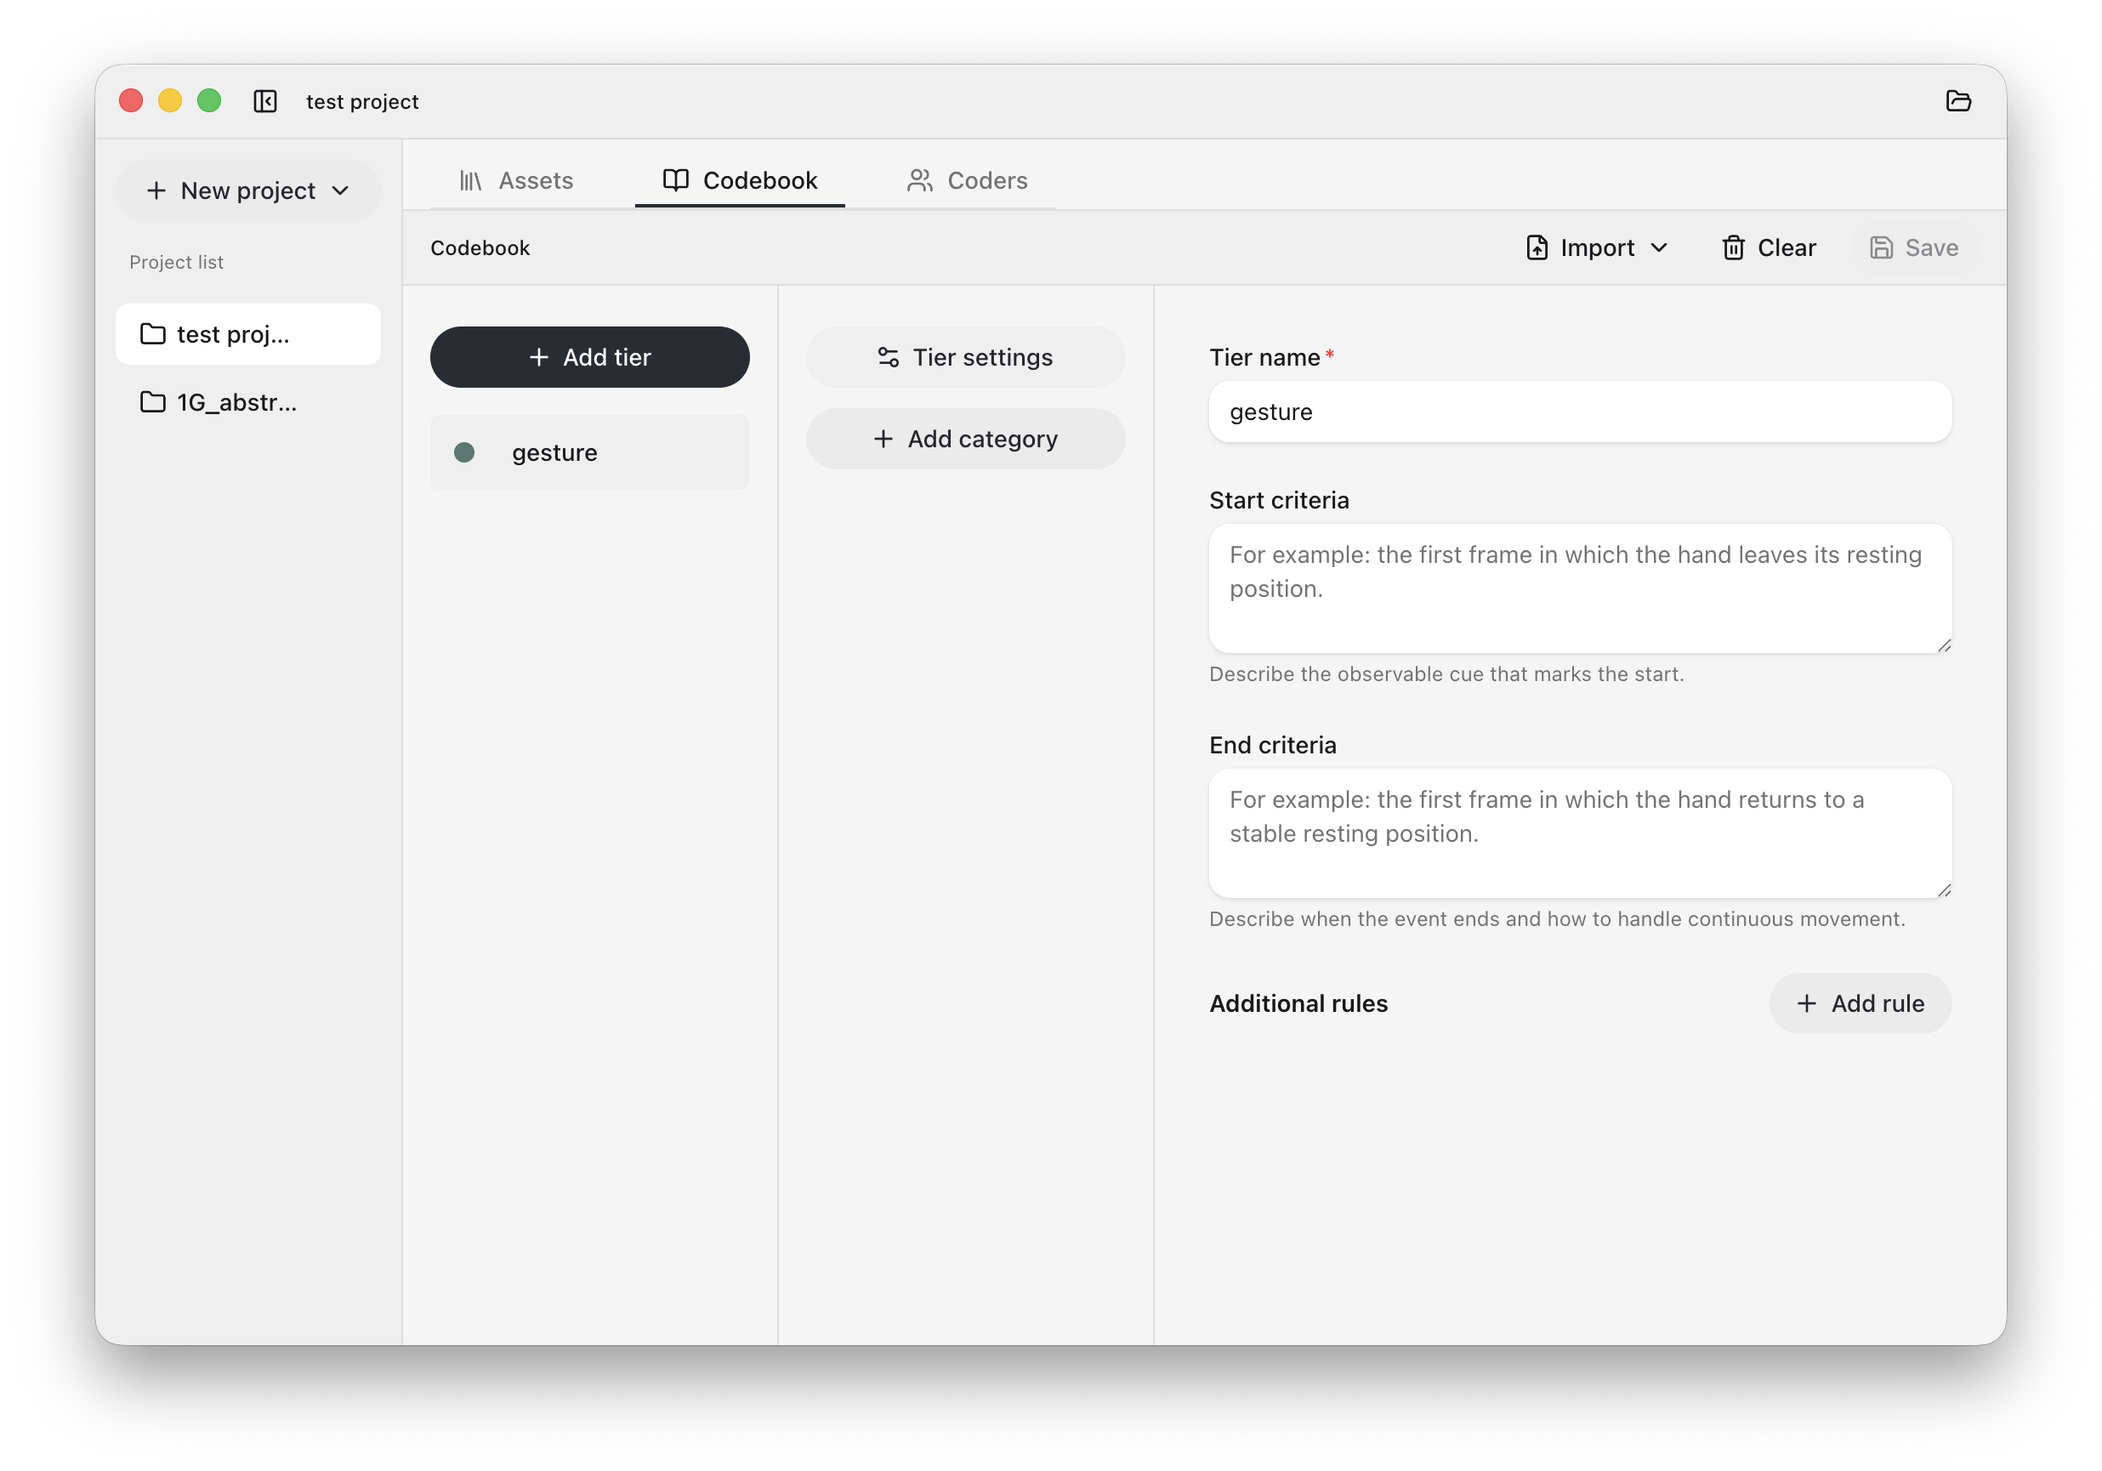
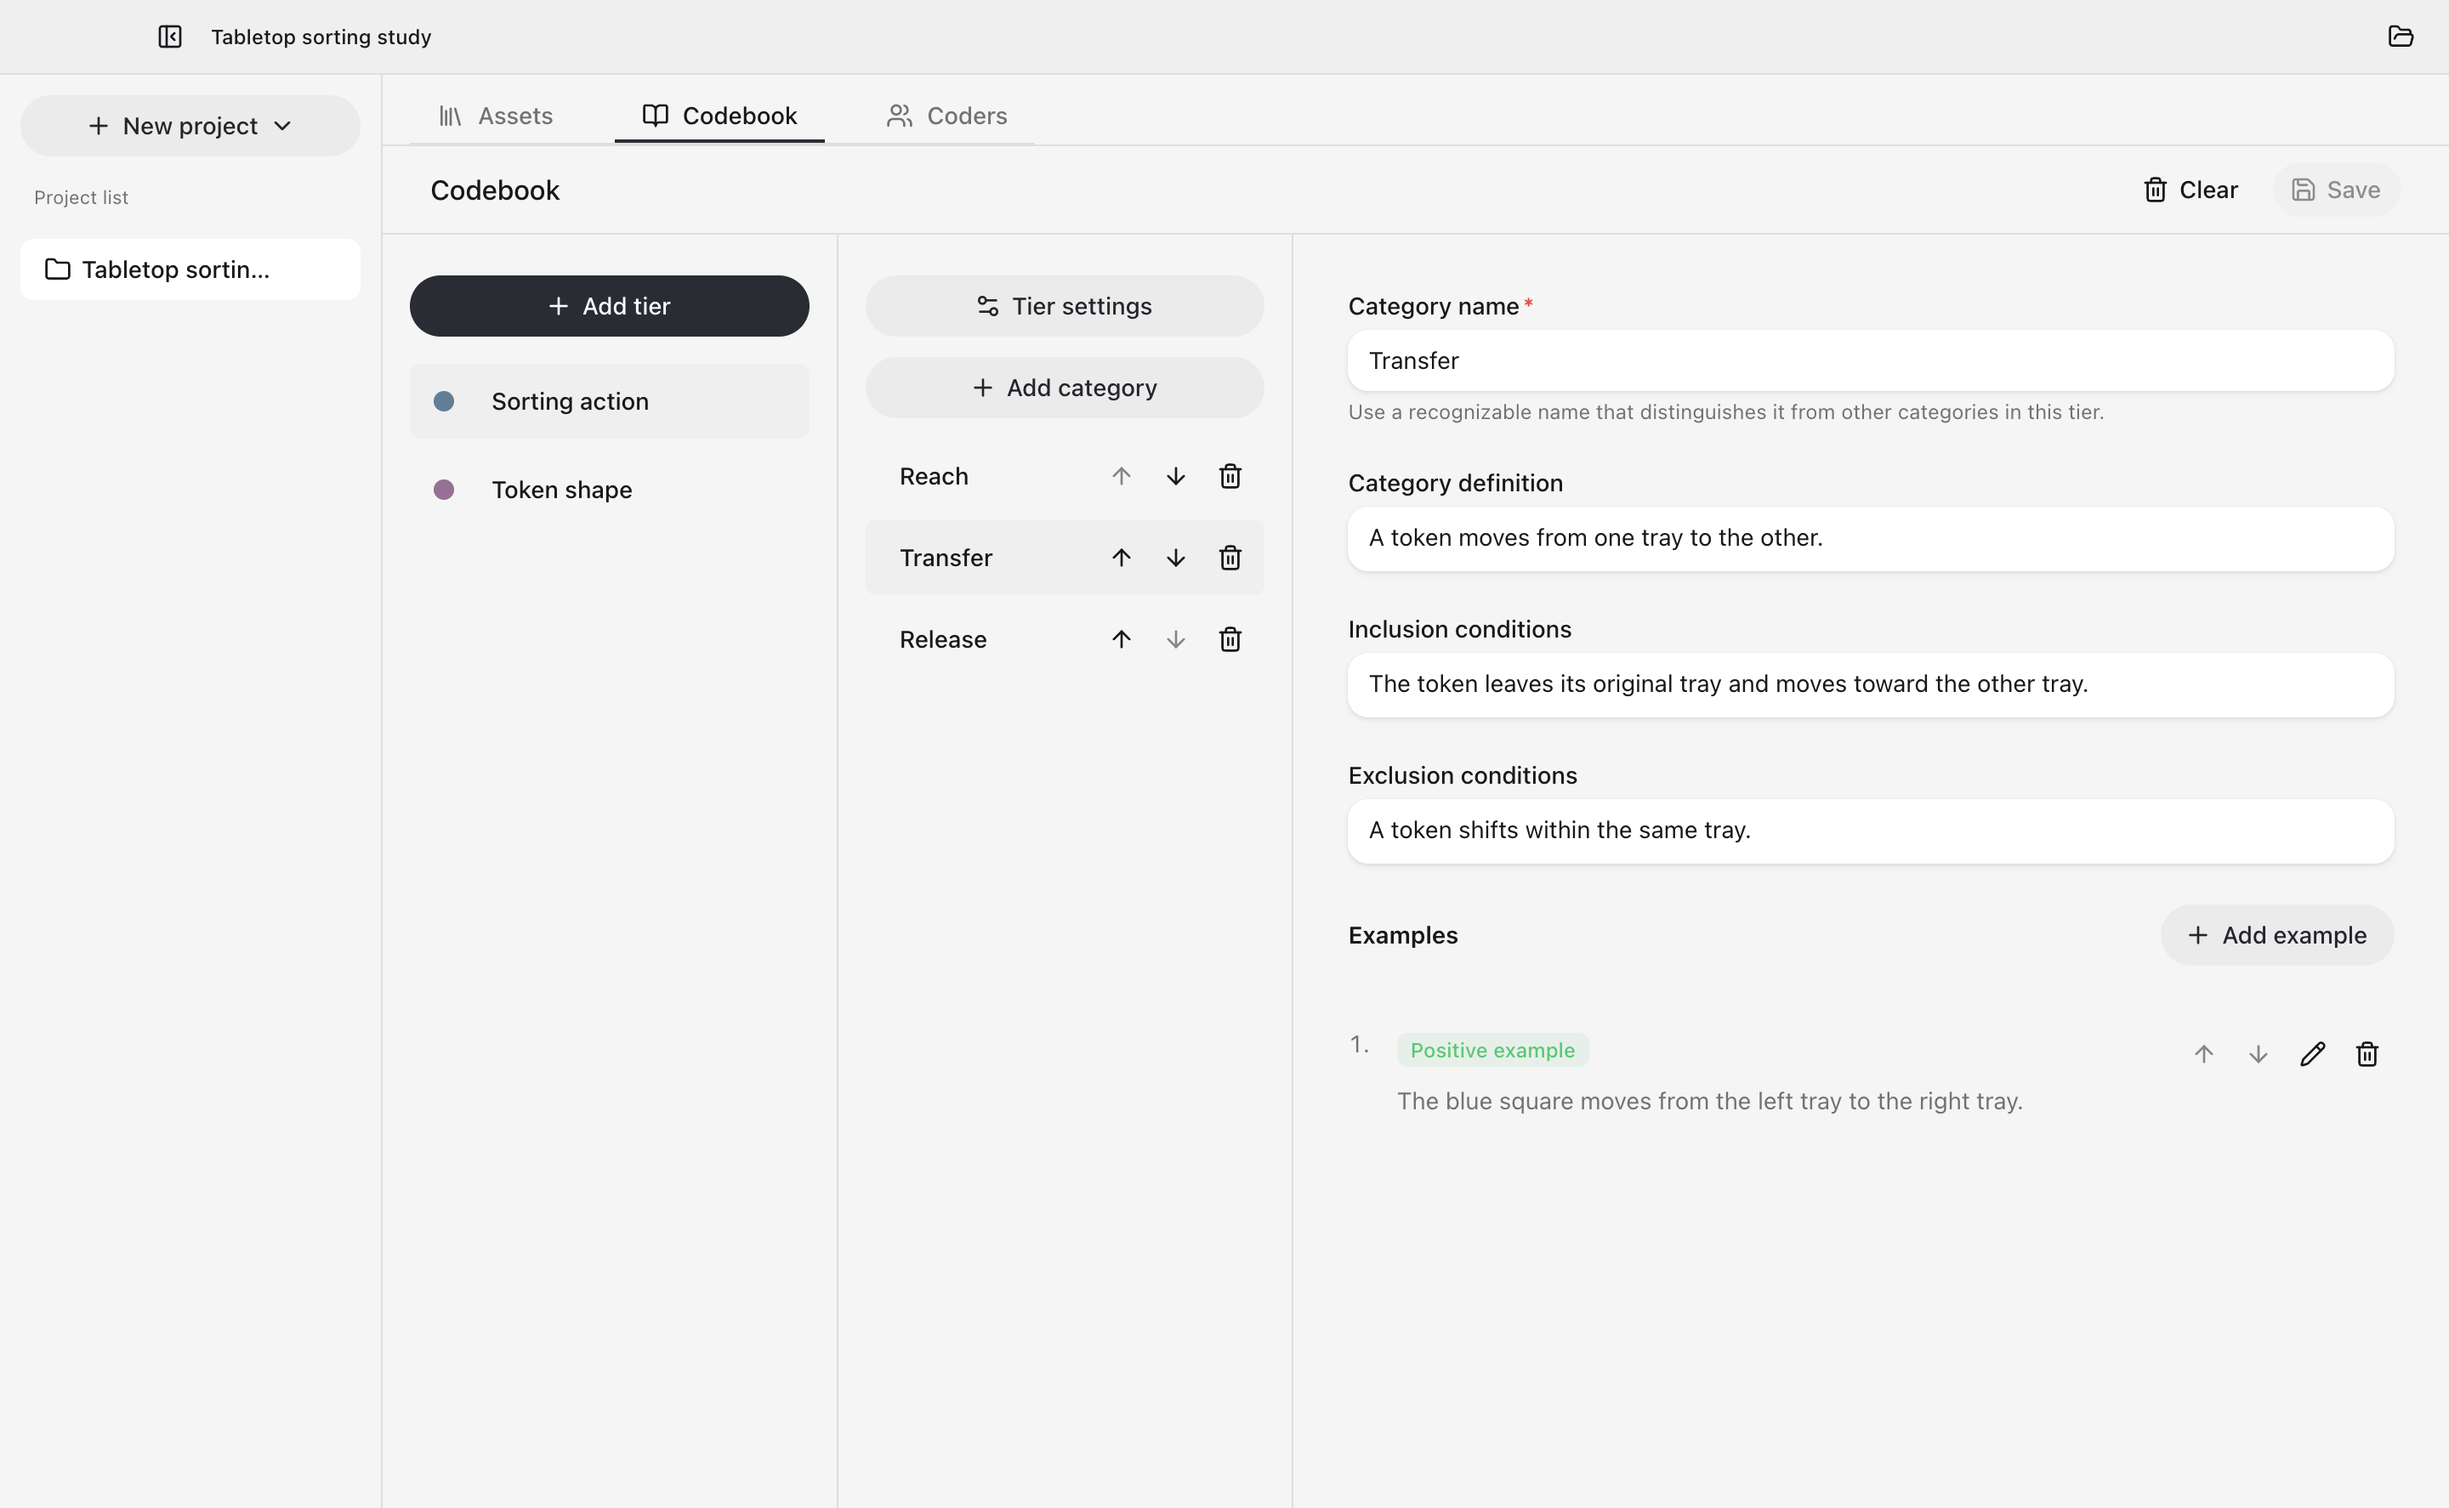
Refresh Codebook landing page and documentation

diff --git a/README.md b/README.md
@@ -2,7 +2,7 @@
 
 <img src="assets/icon.png" alt="Panorama Codebook app icon" width="96" height="96" />
 
-A desktop workspace for coding audio and video in qualitative research, by Panorama Lab. Define a coding protocol, annotate recordings on a timeline, and keep each coder’s work together in a local project folder.
+A desktop workspace for coding audio and video in qualitative research, by Panorama Lab. Define a coding protocol, annotate recordings on a timeline, and compare coder agreement within a local project.
 
 English · [简体中文](README_zh-CN.md)
 
@@ -10,20 +10,25 @@ English · [简体中文](README_zh-CN.md)
 
 [Website](https://panorama-lab.com/codebook) · [Download](https://github.com/panorama-lab/codebook/releases) · [Report an issue](https://github.com/panorama-lab/codebook/issues)
 
-## Screenshots
-
-![Codebook editor with tier settings](screenshots/codebook-editor.png)
-
-![Audio and video coding workspace](screenshots/coding-workspace.png)
-
 ## What you can do
 
-- **Build a codebook.** Define tiers with text, number, boolean, single-choice, or multiple-choice values. Document category definitions, inclusion and exclusion criteria, examples, event boundaries, and decision rules. Preview and copy the generated guide, or import and export the structured codebook as JSON.
-- **Code recordings in context.** Create time-aligned annotations with a media player, waveform, tier timeline, and coding guide in the same workspace. Adjust interval boundaries, loop selections, change playback speed, and undo or redo edits.
-- **Work with multiple coders.** Keep separate annotations for each recording and coder. Track completion and identify completed records that need review after a codebook change.
-- **Generate transcripts.** Configure MiniMax transcription to generate timestamped text with speaker labels. Click words to seek to the corresponding recording interval and follow the current word during playback.
-- **Keep projects locally.** Media, codebooks, coder identities, annotations, and transcripts live in a project folder you control. Manual coding works offline; automatic transcription requires an internet connection and a provider API key.
+- **Define a coding protocol.** Create color-coded tiers and categories. Document when an event starts and ends, which cases to include or exclude, and examples coders can consult in the coding guide.
+- **Annotate recordings in context.** Create and adjust intervals with the media player, waveform, timeline, and coding guide in the same window. Loop a selection, change playback speed, and undo or redo edits.
+- **Review coder agreement.** Track each coder’s progress and keep their records separate. Compare two coders by tier and person using event detection F1, Cohen’s κ, and differences in annotation boundaries.
+- **Work with transcripts.** Import SRT subtitles or generate a transcript with MiniMax. Click transcript text to seek through the recording, edit the transcript, and link source speaker labels to people in the project.
+- **Review AI annotation suggestions.** Connect a configured Codex or WorkBuddy installation, choose a person, tier, and time range, and review the generated annotations before importing them.
+- **Keep projects locally.** Code offline and use a `.codebook` archive to back up or move a project with its media, transcript, and annotations.
 - **Choose your interface language.** Use English, Simplified Chinese, or the system language. Changing the interface language leaves research content unchanged.
+
+## Screenshots
+
+The same sample project is shown in the protocol editor, coding workspace, and reliability report.
+
+![Codebook editor showing tiers, categories, and the rules and examples for a selected category](screenshots/codebook-editor.png)
+
+![Coding workspace with video playback, a coding guide, and annotated tiers](screenshots/coding-workspace.png)
+
+![Reliability report with agreement scores and timing differences for two coders](screenshots/coder-reliability.png)
 
 ## Download
 
@@ -34,12 +39,12 @@ Packaged macOS releases check for updates on startup. You can also choose **Pano
 
 ## Get started
 
-1. **Create a project.** Choose a name and location for a new project folder, or use **File → Open Project** to reopen an existing one.
-2. **Define your codebook.** Add tiers and categories, describe the coding procedure, and record the rules coders should follow. You can also import a codebook JSON file. Valid edits save automatically.
-3. **Add coders.** Create local coder identities and select the active coder. These identities do not require accounts.
-4. **Import recordings.** Add audio or video from **Assets**. Panorama Codebook copies the files into the project and checks whether they can be played.
-5. **Annotate.** Open a recording to launch its coding window. Drag on a tier to select an interval, then double-click inside the selection to create an annotation. Enter a value and confirm. Use the annotation list or timeline to revisit and edit your work.
-6. **Mark the recording complete.** Completion is tracked separately for each coder. Further edits reopen the record; changes to the codebook flag completed records for review.
+1. **Create a project.** Choose **New project → Empty project** and enter a name. To open a `.codebook` archive, choose **New project → Import project**.
+2. **Define your codebook.** In the **Codebook** tab, add tiers and categories, then enter timing criteria, rules, and examples. Click **Save** to apply your changes.
+3. **Add coders and recordings.** Create local coder identities in **Coders** and add audio or video with **Import media** in **Assets**. Codebook copies imported recordings into the project.
+4. **Annotate a recording.** Open an asset and choose a coder. Add a person if the recording has none. Drag on a tier to select an interval, then click **New annotation** or press Enter. Use the timeline or annotation list to revisit and edit saved intervals.
+5. **Mark the recording complete.** Completion is tracked per coder. Further edits reopen the record. Codebook changes flag completed records for review.
+6. **Compare two coders.** In **Coders**, choose **Review** for the recording, open **Reliability**, and select two saved coding records. Filter by tier or person as needed.
 
 Each recording/coder pair opens in its own coding window, so you can keep several workspaces open alongside the project window.
 
@@ -49,11 +54,11 @@ Open **Panorama Codebook → Settings… → Transcribe**, choose **New provider
 
 Audio is sent to MiniMax in chunks. Provider usage may incur charges; retrying starts a new run. Failed or canceled transcription leaves the existing transcript intact. Replacing a transcript requires confirmation and archives the previous version in the project.
 
-Transcripts are shared across coders for the same recording. The transcript viewer supports playback navigation; manual proofreading and speaker mapping are not currently available. Speaker labels apply within each audio chunk and do not establish a person’s identity across chunks.
+Transcripts are shared across coders for the same recording. Choose **Import → SRT** in the transcript panel to preview and import a subtitle file. You can edit the saved text and map source speaker labels to people in the project.
 
 ## Project files and backups
 
-A project is a directory of JSON files and imported media:
+Codebook manages project folders locally. Use **Export project** to create a `.codebook` archive, and **Import project** to restore it on another computer. Each project folder contains JSON records and imported media.
 
 ```text
 project.json                 Project identity and format version
@@ -62,18 +67,14 @@ coders.json                  Local coder identities
 assets/                      Recording metadata
 media/                       Imported recordings and extracted audio
 coding/                      Annotations organized by recording and coder
+speakers/                    People associated with recordings
 transcripts/                 Transcripts and archived versions
+ai-sessions/                 AI annotation sessions and generated results
 ```
 
 Saved JSON records use atomic replacement and retain the previous version in an adjacent `.bak` file. Back up the entire project folder to preserve both recordings and annotations. Close the project before moving or restoring it; media paths are relative to the project folder.
 
 Multiple app instances or cloud-synced folders must not edit the same project concurrently. Multiple local coder identities provide separate annotation records, rather than live collaboration.
-
-## Current scope
-
-Panorama Codebook is in active development. The desktop app currently focuses on audio and video coding. Text-document coding, analytic memos, theme development, and coder comparison are not currently available in the desktop workflow.
-
-Playback depends on the recording’s codec. Waveform previews may be unavailable for larger compressed recordings even when playback and coding work. Protocol rules and tier relationships provide guidance; they are not automatically enforced by the timeline.
 
 ## Feedback
 
